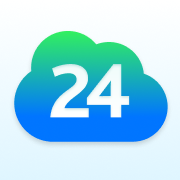
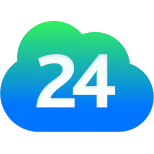
Логотипы Ward и Bitrix24 без фона: прозрачные PNG, без скругления и рамки

diff --git a/apps/web/src/components/source-badge.tsx b/apps/web/src/components/source-badge.tsx
@@ -13,7 +13,7 @@ export function isBrandSource(type: string): type is BrandSource {
   return type in BRANDS;
 }
 
-/** Логотип источника. Декоративный: рядом всегда есть название. */
+/** Логотип источника (прозрачный фон). Декоративный: рядом всегда есть название. */
 export function SourceLogo({ source, className }: { source: BrandSource; className?: string }) {
   return (
     // eslint-disable-next-line @next/next/no-img-element -- маленькая статичная иконка, оптимизация не нужна
@@ -21,7 +21,7 @@ export function SourceLogo({ source, className }: { source: BrandSource; classNa
       src={BRANDS[source].src}
       alt=""
       aria-hidden
-      className={cn('size-4 shrink-0 rounded-[22%] object-cover', className)}
+      className={cn('size-4 shrink-0 object-contain', className)}
     />
   );
 }
@@ -46,14 +46,11 @@ export function SourceBadge({
       className={cn(
         'inline-flex items-center gap-1.5 align-middle',
         variant === 'pill' &&
-          'h-5 rounded-full border bg-card py-0.5 pr-2 pl-0.5 text-xs font-medium text-foreground',
+          'h-5 rounded-full border bg-card py-0.5 pr-2 pl-1.5 text-xs font-medium text-foreground',
         className,
       )}
     >
-      <SourceLogo
-        source={source}
-        className={variant === 'pill' ? 'size-4 rounded-full' : undefined}
-      />
+      <SourceLogo source={source} />
       {children ?? BRANDS[source].label}
     </span>
   );

diff --git a/apps/web/src/app/(app)/integrations/integration-card.tsx b/apps/web/src/app/(app)/integrations/integration-card.tsx
@@ -99,7 +99,7 @@ export function IntegrationCard({ s, canManage }: { s: IntegrationSummary; canMa
     <Card className="gap-0 pb-0">
       <CardHeader className="flex flex-row items-start gap-3 pb-4">
         {isBrandSource(s.type) ? (
-          <SourceLogo source={s.type} className="size-9 rounded-[10px] border" />
+          <SourceLogo source={s.type} className="size-9" />
         ) : (
           <div className="flex size-9 shrink-0 items-center justify-center rounded-lg bg-primary/10 text-primary">
             <Icon className="size-4.5" aria-hidden />
